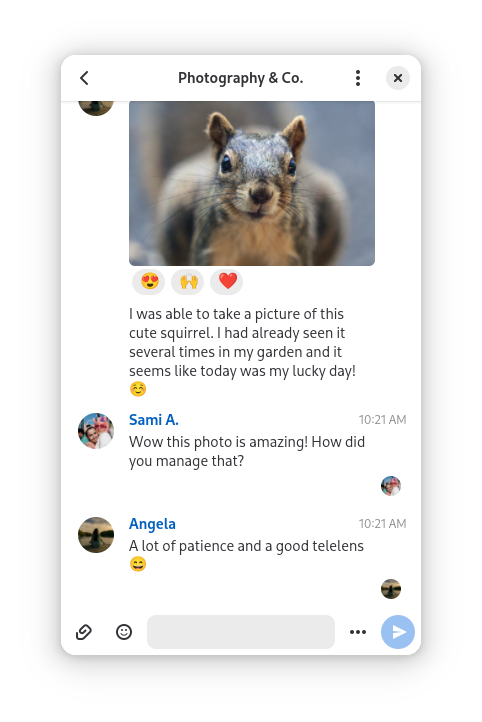
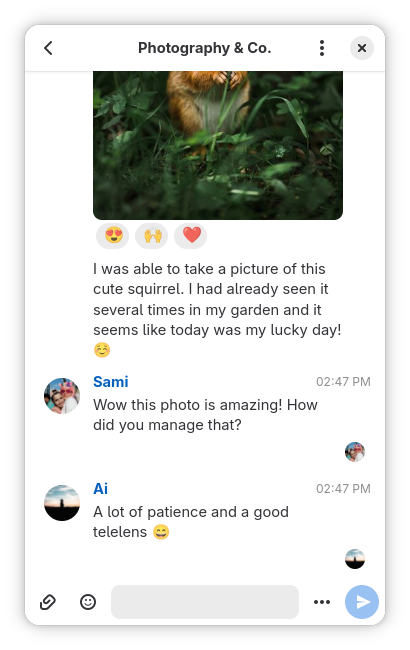
Release Fractal 13

Changed region(s): [[0.0293, 0.0308, 0.9659, 0.9846]]

diff --git a/README.md b/README.md
@@ -49,7 +49,7 @@ development version while keeping the stable release around for daily use.
 
 ### Stable version
 
-The current stable version is 12.1 (released August 26th 2025).
+The current stable version is 13 (released October 31st 2025).
 
 You can get the official Fractal Flatpak from Flathub.
 
@@ -64,7 +64,7 @@ You can get the official Fractal Flatpak from Flathub.
 
 ### Beta version
 
-The current beta version is 13.rc (released October 17th 2025).
+The current beta version is 13 (same as stable).
 
 It is available as a Flatpak on Flathub Beta.
 
